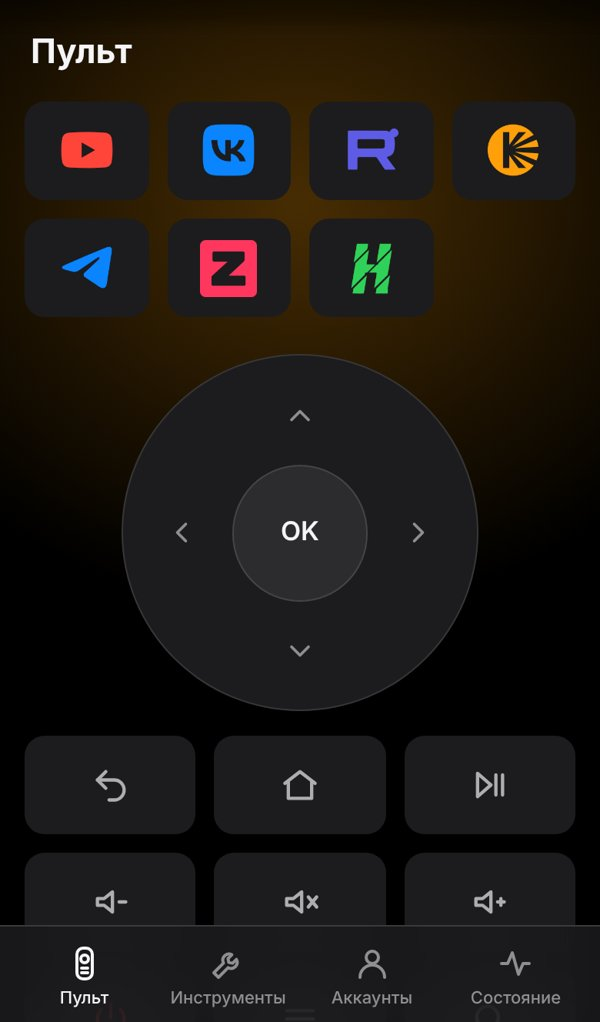
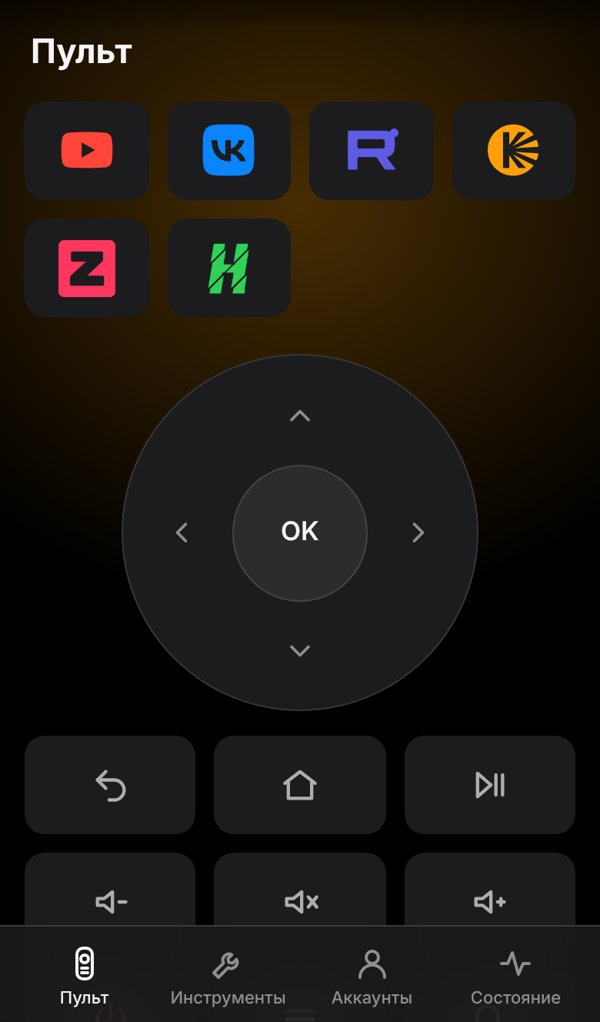
Документация под Telegram-плеер по ссылкам и выкладку релизов; проверка сетки отступов и для экранов Telegram
Claude-Session: https://claude.ai/code/session_01B6PWJ6r9JLR7WMvbfMSBRJ

Changed region(s): [[0.51, 0.2123, 0.72, 0.3337], [0.09, 0.2123, 0.21, 0.3033], [0.33, 0.2123, 0.45, 0.3033]]

diff --git a/starwind/test/SpacingTest.java b/starwind/test/SpacingTest.java
@@ -13,7 +13,7 @@ public final class SpacingTest {
         Pattern call = Pattern.compile("(setPadding|Margin\\s*=|setMargins)[^;]*;");
         Pattern num = Pattern.compile("px\\((\\d+(?:\\.\\d+)?)f?\\)");
         int bad = 0;
-        String[] files = {"IosHome.java", "IosMenu.java", "IosCards.java", "IosSearch.java", "IosSettings.java", "IosVpn.java", "IosInputs.java"};
+        String[] files = {"IosHome.java", "IosMenu.java", "IosCards.java", "IosSearch.java", "IosSettings.java", "IosVpn.java", "IosInputs.java", "TgActivity.java", "TgPlayerActivity.java"};
         for (String f : files) {
             List<String> lines = Files.readAllLines(Paths.get("launcher/app/src/main/java/com/gathin/tvhome", f));
             for (int i = 0; i < lines.size(); i++) {

diff --git a/starwind/docs/TELEGRAM.md b/starwind/docs/TELEGRAM.md
@@ -1,13 +1,13 @@
-# Свой клиент Telegram для видео
+# Свой плеер видео из Telegram
 
-Клиент заточен под одно: смотреть длинные видео из каналов (перезаливы стримов, фильмы, большие выпуски) на телевизоре
-с пульта. Переписки нет. Работает на официальной библиотеке Telegram — **TDLib** (та же сборка, что в Telegram X),
+Заточен под одно: смотреть видео из постов Telegram (перезаливы стримов, фильмы, большие выпуски) на телевизоре —
+ссылка на пост отправляется с пульта, видео поста открываются карточками. Переписки нет. Работает на официальной библиотеке Telegram — **TDLib** (та же сборка, что в Telegram X),
 в отдельном процессе `:tg`, чтобы не утяжелять главный экран. **Весь трафик — только через VPN**: если туннеля нет,
 клиент встаёт на паузу и ничего не отправляет мимо него.
 
-| Лента в доке | Видео поста | Плеер |
-|---|---|---|
-| ![](img/tg-dock.jpg) | ![](img/tg-post.jpg) | ![](img/tg-player.jpg) |
+| Видео поста | Плеер |
+|---|---|
+| ![](img/tg-post.jpg) | ![](img/tg-player.jpg) |
 
 ## Первый запуск
 
@@ -20,16 +20,15 @@
    (хранится в настройках процесса `:tg`), в репозитории и на Маке его нет.
 3. **Вход.** «На экран» — на телевизоре появится QR-код. В Telegram на телефоне: Настройки → Устройства →
    Подключить устройство, навести камеру. Если стоит облачный пароль — пульт попросит его.
-4. После входа Telegram встаёт в док между Кинопоиском и Зоной (один раз; дальше порядок меняется как обычно).
+4. После входа Telegram появляется плиткой в ряду приложений главного экрана (в док и ленты он не попадает — это плеер по ссылкам).
 
 ## Что внутри
 
-- **Главная клиента** (ОК на значке в доке): «Продолжить просмотр» и «Каналы с видео» — только каналы, где есть длинные видео.
+- **Как открыть:** пульт → «Открыть на телевизоре» → ссылка на пост; или плитка Telegram в ряду приложений.
+- **Главная клиента**: «Продолжить просмотр» и «Мои каналы».
 - **Канал**: его видео карточками, подгружаются по мере листания.
 - **Пост по ссылке**: пульт → «Открыть на телевизоре» → ссылка `t.me/канал/123` (или `t.me/c/…`) — все видео поста (альбом
   до 10 видео) карточками: превью, длительность, качество, размер, дата.
-- **Лента в доке** (`TgFeed`): свежие видео из до 60 каналов, только длинные (**от 15 минут** или файлы **от 300 МБ**),
-  не больше трёх с одного канала, до 24 карточек. Обновляется раз в 20 минут. Порог — `LONG_SECONDS`/`BIG_BYTES` в `TgFeed.java`.
 - **Карточки**: ОК — смотреть; **Меню** — выбор качества, если Telegram сделал облегчённые версии; синяя полоска — сколько
   уже посмотрено.
 
@@ -65,13 +64,16 @@ TDLib иногда «зависает» на отдельном куске на 
 | `TgActivity.java` | Экран клиента: вход, главная, канал, пост, карточки, выбор качества |
 | `TgPlayerActivity.java` | Плеер |
 | `TgSource.java` | Потоковая подкачка для плеера |
-| `TgFeed.java` | Лента для дока и список «каналов с видео» |
-| `TgReceiver.java` | Поручения с пульта (ключ, пароль, выход, лента) — только от оболочки (`DUMP`) и с ключом пульта |
-| `TgLocal.java` | Лаунчер просит обновить ленту |
+| `TgReceiver.java` | Поручения с пульта (ключ, пароль, выход) — только от оболочки (`DUMP`) и с ключом пульта |
 | `org/drinkless/tdlib/*` | Java-часть TDLib; нативная — `starwind/vendor/tdlib` |
 
 Данные TDLib — `/data/data/com.gathin.tvhome/files/tg` (вход) и `cache/tg` (файлы). Состояние для пульта —
 `/sdcard/Android/data/com.gathin.tvhome/files/remote/tg.json`.
+
+## Почему без ленты в доке
+
+Пробовали ленту свежих видео из каналов в доке (сначала все подряд, потом только длинные). Владелец решил, что
+Telegram нужен как плеер по ссылкам: лента и место в доке убраны, клиент — плитка в ряду приложений.
 
 ## Почему не Telegram X / официальный клиент
 

diff --git a/README.md b/README.md
@@ -13,7 +13,7 @@
 ## Что внутри
 
 - **Главный экран** (`com.gathin.tvhome`, класс `IosHome`): вертикальный док сервисов слева, справа — живая лента
-  выбранного сервиса (YouTube — подписки, ВК, Рутуб, Кинопоиск, Telegram, Зона), ниже — все приложения.
+  выбранного сервиса (YouTube — подписки, ВК, Рутуб, Кинопоиск, Зона), ниже — все приложения.
   Логотип в фокусе загорается цветом сервиса, свет расходится по экрану. Погода, часы, поиск по всем сервисам, Wi‑Fi, настройки.
 - **Боковое меню настроек**: тумблеры и выбор стрелками, Wi‑Fi, VPN (Happ), таймер сна, заставки, своя клавиатура,
   блокировка рекламы, быстрые анимации, обновление лаунчера с GitHub.
@@ -22,8 +22,8 @@
 - **Пульт в телефоне**: веб-страница с сервера на самом телевизоре (сохраняется на экран «Домой» iPhone как приложение).
   Кнопки и кликпад, док, ввод текста, ссылки на телевизор, снимок и запись экрана в «Фото», файлы и APK, настройки,
   аккаунты, состояние телевизора и всех приложений.
-- **Свой клиент Telegram для видео** (TDLib): вход по QR, каналы с длинными видео, лента в доке, посты по ссылке,
-  плеер с потоковой подкачкой, выбор качества, «продолжить просмотр». Весь трафик — только через VPN.
+- **Свой плеер видео из Telegram** (TDLib): ссылка на пост с пульта — видео поста карточками, плеер с потоковой
+  подкачкой, выбор качества, «продолжить просмотр», каналы. Вход по QR, весь трафик — только через VPN.
 - **Единая дизайн-система** для телевизора и пульта: палитра iOS (тёмная), SF Pro, шкалы размеров, скруглений и отступов.
   Тесты не дают собрать сборку с цветом или отступом мимо системы.
 - **Инструмент `tv`** на Маке: сборка, установка, проверка, журналы, разгрузка памяти, откат.
@@ -35,7 +35,7 @@
 | [Установка с нуля](starwind/docs/INSTALL.md) | Как повторить всё на другом таком же (или похожем) телевизоре |
 | [Как пользоваться](starwind/docs/USAGE.md) | Телевизор, меню, заставки, VPN, ежедневное использование |
 | [Пульт в телефоне](starwind/docs/REMOTE.md) | Установка на iPhone, вкладки, сохранение в «Фото», API сервера |
-| [Telegram](starwind/docs/TELEGRAM.md) | Ключ API, вход, лента, плеер, ограничения |
+| [Telegram](starwind/docs/TELEGRAM.md) | Ключ API, вход, видео по ссылкам, плеер, ограничения |
 | [Дизайн-система](starwind/docs/DESIGN.md) | Цвета, шрифты, размеры, правила для телевизора и пульта |
 | [Устройство программы](starwind/docs/ARCHITECTURE.md) | Все части, процессы, права, файлы данных, классы |
 | [Разработка](starwind/docs/DEVELOPMENT.md) | Сборка, тесты, установка, правила кода; как продолжать с любым ИИ |

diff --git a/starwind/docs/DEVELOPMENT.md b/starwind/docs/DEVELOPMENT.md
@@ -18,6 +18,7 @@
 bash starwind/test/run.sh             # тесты (Java, без Android) — обязательны перед установкой
 ~/Documents/Claude/tv deploy          # тесты → сборка → установка → права → домашний экран → отчёт
 QUIET=1 ~/Documents/Claude/tv deploy  # то же, но не уводит телевизор с текущего экрана (можно, пока смотрят видео)
+RELEASE=0 ~/Documents/Claude/tv deploy # не выкладывать сборку в релизы GitHub (по умолчанию выкладывается)
 ~/Documents/Claude/tv check           # состояние телевизора; tv report — с журналом лаунчера
 ~/Documents/Claude/tv log 100         # журнал лаунчера
 ~/Documents/Claude/tv release         # выложить APK в релизы GitHub — телевизоры обновятся из меню
@@ -35,7 +36,9 @@ QUIET=1 ~/Documents/Claude/tv deploy  # то же, но не уводит тел
 4. Тесты `starwind/test/run.sh` → `./gradlew assembleRelease`.
 5. Загрузка APK (`tools/b64push.py`) и `pm install -r`; если ключ подписи другой — предложит переустановку с сохранением настроек.
 6. Права, заставка, клавиатура, анимации; перезапуск сервера пульта из нового APK.
-7. Без `QUIET`: перезапуск лаунчера, `tv keys`, переход на главный экран, отчёт и снимок экрана.
+7. Та же сборка выкладывается в релизы `timuramishov-jpg/tv-home` (если `gh` вошёл в GitHub, `RELEASE=0` — нет):
+   так «Обновить лаунчер» в меню телевизора всегда видит последнюю версию.
+8. Без `QUIET`: перезапуск лаунчера, `tv keys`, переход на главный экран, отчёт и снимок экрана.
 
 ## Работа с ИИ-помощником
 

diff --git a/starwind/docs/HISTORY.md b/starwind/docs/HISTORY.md
@@ -20,7 +20,8 @@
 8. **Заставки, таймер сна, источники HDMI, погода, обновление с GitHub без Мака.**
 9. **Telegram.** Видео из каналов без входа не достать (t.me отдаёт только «Open in Telegram»). Telegram X оказался
    неуправляемым пультом и тяжёлым — написан свой клиент на TDLib. Ключ API с российского номера получен через VPN
-   Казахстана. Лента в доке — только длинные видео. Потоковая подкачка доведена до старта за секунды.
+   Казахстана. Потоковая подкачка доведена до старта за секунды. Ленту Telegram в доке попробовали и убрали —
+   Telegram остался плеером видео по ссылкам (плитка в ряду приложений).
 10. **Пульт по вкладкам:** Пульт / Инструменты / Аккаунты / Состояние; снимок и запись экрана в «Фото» через быструю команду iOS.
 
 ## Ключевые решения

diff --git a/starwind/docs/USAGE.md b/starwind/docs/USAGE.md
@@ -10,7 +10,6 @@
   - YouTube — новые видео из подписок (после входа) или популярное; шортсы отфильтрованы;
   - ВК Видео, Рутуб — рекомендации;
   - Кинопоиск — подборки (по ОК открывается приложение Кинопоиска);
-  - Telegram — свежие **длинные** видео из каналов (от 15 минут или файлы от 300 МБ);
   - Зона — новинки.
   
   Вправо — по карточкам, ОК — открыть видео прямо в приложении сервиса. Метка «новое» — моложе суток.
@@ -92,7 +91,7 @@
 ## Пульт в телефоне и Telegram
 
 - [REMOTE.md](REMOTE.md) — пульт: кнопки, ввод текста, ссылки, снимки и запись экрана, файлы, настройки, аккаунты, состояние.
-- [TELEGRAM.md](TELEGRAM.md) — Telegram: каналы, лента, посты по ссылке, плеер.
+- [TELEGRAM.md](TELEGRAM.md) — Telegram: видео из постов по ссылке, каналы, плеер.
 
 ## Команды на Маке (`~/Documents/Claude/tv`)
 

diff --git a/starwind/docs/INSTALL.md b/starwind/docs/INSTALL.md
@@ -107,8 +107,8 @@ git clone https://github.com/timuramishov-jpg/starwind-tv.git ~/Documents/Claude
 
 ## Шаг 7. Приложения
 
-Док по умолчанию: YouTube (`com.yandex.tv.ytplayer`), ВК, Рутуб, Кинопоиск, Happ (VPN); Telegram встаёт в док сам после
-ввода ключа, Зона — если установлена. Поставить APK с Мака: `tv install файл.apk`, с телефона — пульт → «Инструменты» →
+Док по умолчанию: YouTube (`com.yandex.tv.ytplayer`), ВК, Рутуб, Кинопоиск, Happ (VPN); Зона — если установлена. Telegram — плитка
+в ряду приложений (появляется после ввода ключа). Поставить APK с Мака: `tv install файл.apk`, с телефона — пульт → «Инструменты» →
 «Отправить на телевизор». Магазины: `tv aurora` (Aurora Store) или RuStore.
 
 | Приложение | Зачем | Пакет |

diff --git a/starwind/docs/ARCHITECTURE.md b/starwind/docs/ARCHITECTURE.md
@@ -105,7 +105,6 @@
 | `ios_keys` | Ключи сервисов (из `tv keys`) |
 | `tg` (процесс `:tg`) | Ключ Telegram API, позиции просмотра, «недавние» |
 | `files/tg`, `cache/tg` | База и файлы TDLib |
-| `files/tg_feed.json`, `files/tg_channels.json` | Лента Telegram для дока, каналы с видео |
 | `/sdcard/Android/data/com.gathin.tvhome/files/` | Данные для пульта (`remote/`), копия настроек (`backup/`), `crash.txt` |
 
 ## Мак-сторона
